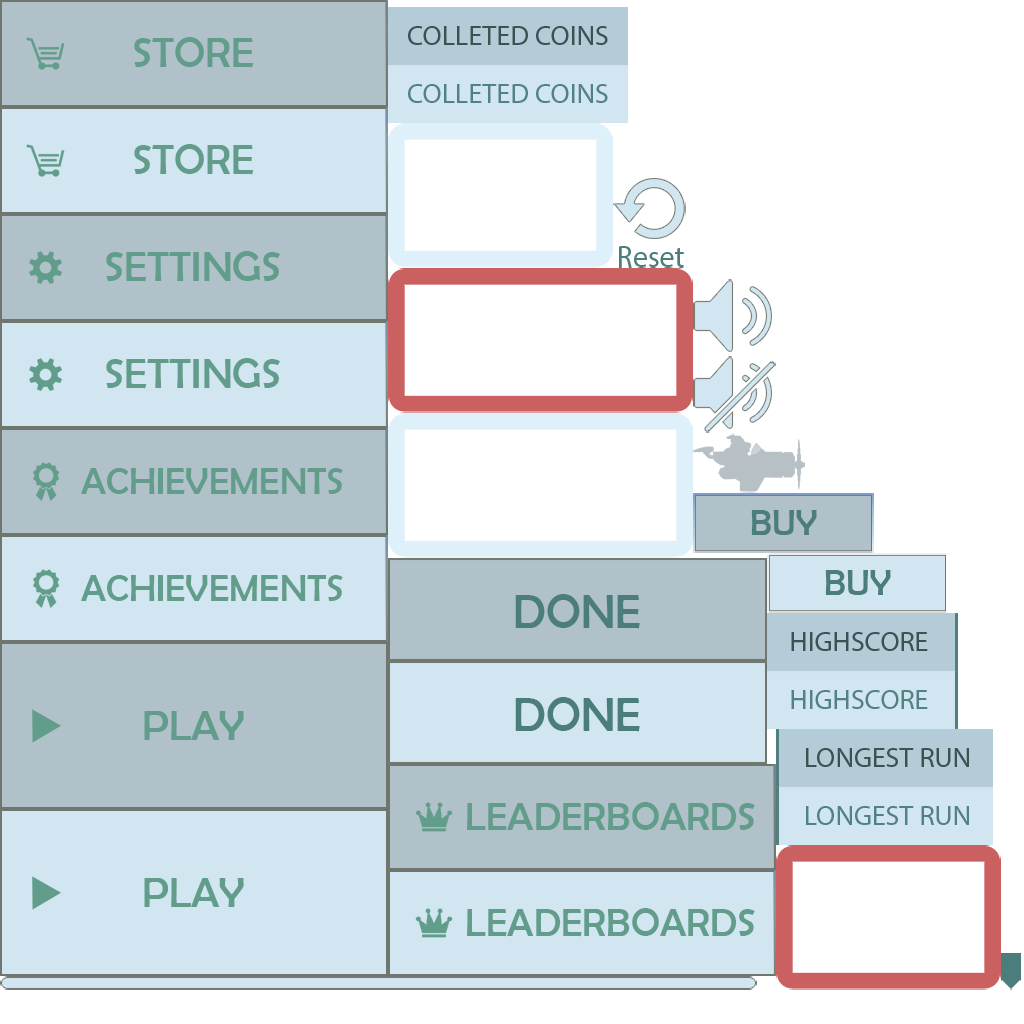
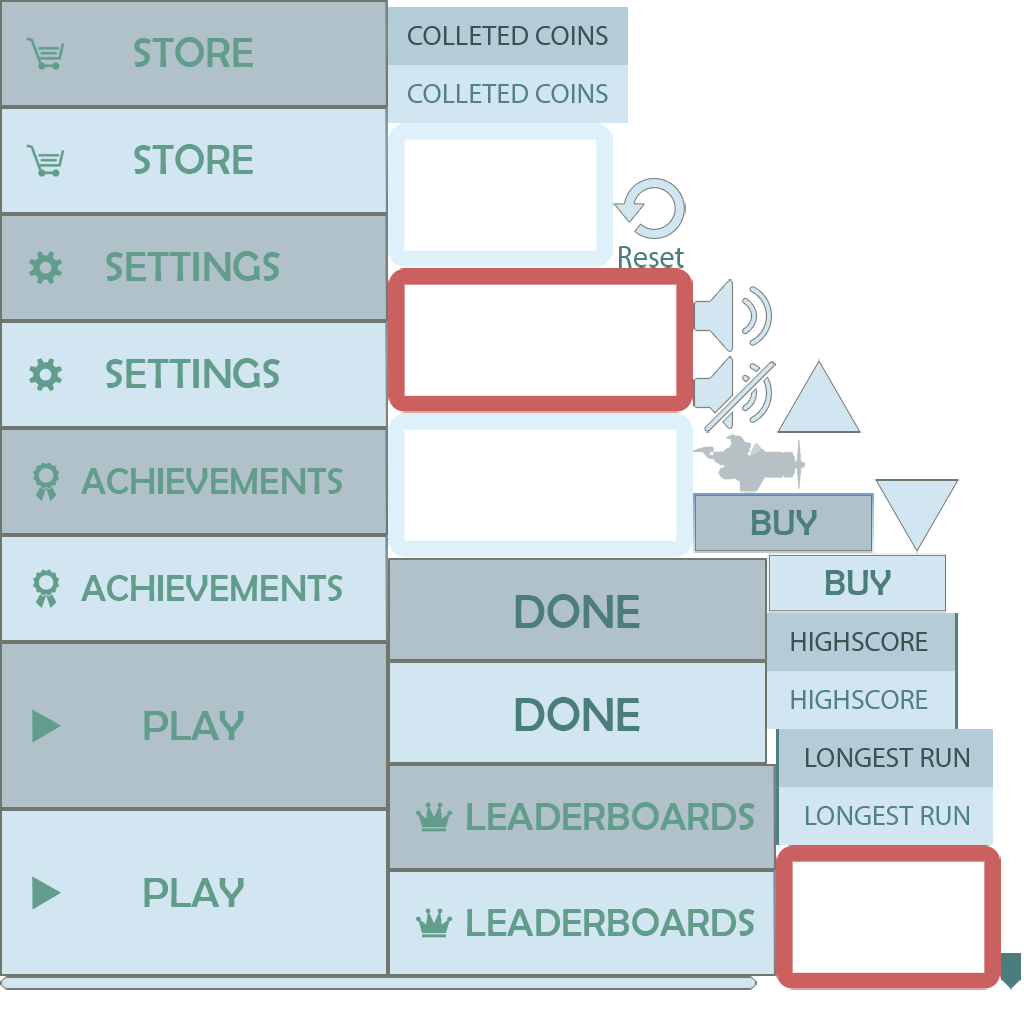
Added selector sub menu and selector to loadout view

Changed region(s): [[0.75, 0.3438, 0.8438, 0.4375], [0.8438, 0.4688, 0.9375, 0.5312]]

diff --git a/Bullet-Inferno/src/se/dat255/bulletinferno/view/menu/LoadoutView.java b/Bullet-Inferno/src/se/dat255/bulletinferno/view/menu/LoadoutView.java
@@ -1,11 +1,18 @@
 package se.dat255.bulletinferno.view.menu;
 
+import java.util.LinkedList;
+import java.util.List;
+
+import se.dat255.bulletinferno.util.Descriptable;
 import se.dat255.bulletinferno.util.Disposable;
 import se.dat255.bulletinferno.util.ResourceManager;
 import se.dat255.bulletinferno.util.TextureDefinitionImpl;
+import se.dat255.bulletinferno.view.menu.widget.LoadoutSelector;
 
+import com.badlogic.gdx.scenes.scene2d.Action;
 import com.badlogic.gdx.scenes.scene2d.Group;
 import com.badlogic.gdx.scenes.scene2d.Stage;
+import com.badlogic.gdx.scenes.scene2d.actions.Actions;
 import com.badlogic.gdx.scenes.scene2d.ui.Button;
 import com.badlogic.gdx.scenes.scene2d.ui.Button.ButtonStyle;
 import com.badlogic.gdx.scenes.scene2d.ui.Image;
@@ -15,16 +22,24 @@ public class LoadoutView implements Disposable {
 	public final static int VIRTUAL_HEIGHT = 1080, VIRTUAL_WIDTH = 1920;
 	
 	private final static int TABLE_X = 390, GLASS_WIDTH = 1113;
+	private final static float SLIDE_ANIMATION_DURATION = 0.4f;
 	
 	private final ResourceManager resources;
 	private final Stage stage;
-	private final Table table;
+	private final Table table, extensionTable;
 	private final MenuBackgroundView backgroundView;
 	private final Button standardWeaponButton, heavyWeaponButton;
 	private final Button passiveAbilityButton, specialAbilityButton;
 	private final Button doneButton;
+	private final LoadoutSelector standardSelector, heavySelector, passiveSelector, specialSelector;
+	private LoadoutSelector activeSelector = null;
+	private boolean isExtensionTabledown = false;
 	
-	public LoadoutView(ResourceManager resources, Stage stage) {
+	public LoadoutView(ResourceManager resources, Stage stage, 
+			List<Descriptable> standardWeaponOptions,
+			List<Descriptable> heavyWeaponOptions,
+			List<Descriptable> passiveAbilityOptions,
+			List<Descriptable> specialAbilityOptions) {
 		this.resources = resources;
 		this.stage = stage;
 		
@@ -107,7 +122,20 @@ public class LoadoutView implements Disposable {
 				resources.getDrawableTexture(TextureDefinitionImpl.LOADOUTMENU_DONE_BUTTON_DOWN));
 		table.add(doneButton).padTop(140);
 		
-		table.debug();
+		extensionTable = new Table();
+		extensionTable.setBackground(
+				resources.getDrawableTexture(TextureDefinitionImpl.LOADOUTMENU_GLASS_SELECT));
+		extensionTable.setSize(extensionTable.getBackground().getMinWidth(), VIRTUAL_HEIGHT);
+		extensionTable.setPosition(VIRTUAL_WIDTH - extensionTable.getWidth(), VIRTUAL_HEIGHT);
+		extensionTable.debug();
+		extensionTable.top();
+		
+		standardSelector = new LoadoutSelector(resources, standardWeaponOptions);
+		heavySelector = new LoadoutSelector(resources, heavyWeaponOptions);
+		passiveSelector = new LoadoutSelector(resources, passiveAbilityOptions);
+		specialSelector = new LoadoutSelector(resources, specialAbilityOptions);
+		extensionTable.add(standardSelector).width(extensionTable.getWidth() - 30);
+		stage.addActor(extensionTable);
 		stage.addActor(table);
 	}
 
@@ -118,4 +146,70 @@ public class LoadoutView implements Disposable {
 		doneButton.clear();
 	}
 
+	public void toggleStandardWeaponSelector() {
+		if(activeSelector == standardSelector) {
+			extensionTable.addAction(isExtensionTabledown? slideUpAction() : slideDownAction());
+		} else {
+			switchActiveSelector(standardSelector);
+		}
+	}
+	
+	public void toggleHeavyWeaponSelector() {
+		if(activeSelector == heavySelector) {
+			extensionTable.addAction(isExtensionTabledown? slideUpAction() : slideDownAction());
+		} else {
+			switchActiveSelector(heavySelector);
+		}
+	}
+	
+	public void togglePassiveAbilitySelector() {
+		if(activeSelector == passiveSelector) {
+			extensionTable.addAction(isExtensionTabledown? slideUpAction() : slideDownAction());
+		} else {
+			switchActiveSelector(passiveSelector);
+		}
+	}
+	
+	public void toggleSpecialAbilitySelector() {
+		if(activeSelector == specialSelector) {
+			extensionTable.addAction(isExtensionTabledown? slideUpAction() : slideDownAction());
+		} else {
+			switchActiveSelector(specialSelector);
+		}
+	}
+	
+	private void switchActiveSelector(final LoadoutSelector selector) {
+		Action switchAction =  new Action() {
+			@Override
+			public boolean act(float arg0) {
+				//extensionTable.removeActor(activeSelector);
+				//extensionTable.add(selector);
+				activeSelector = selector;
+				return true;
+			}
+		};
+		
+		if(isExtensionTabledown) {
+			extensionTable.addAction(Actions.sequence(slideUpAction(), switchAction, 
+					slideDownAction()));
+		} else {
+			extensionTable.addAction(Actions.sequence(switchAction, slideDownAction()));
+		}
+	}
+	
+	private Action slideDownAction() {
+		isExtensionTabledown = true;
+		return Actions.moveTo(extensionTable.getX(), 0, SLIDE_ANIMATION_DURATION);
+	}
+	
+	private Action slideUpAction() {
+		return Actions.sequence(Actions.moveTo(extensionTable.getX(), SLIDE_ANIMATION_DURATION), 
+				new Action() {
+					@Override
+					public boolean act(float arg0) {
+						isExtensionTabledown = false;
+						return true;
+					}
+				});
+	}
 }

diff --git a/Bullet-Inferno/src/se/dat255/bulletinferno/view/menu/widget/LoadoutSelector.java b/Bullet-Inferno/src/se/dat255/bulletinferno/view/menu/widget/LoadoutSelector.java
@@ -1,0 +1,112 @@
+package se.dat255.bulletinferno.view.menu.widget;
+
+import java.util.ArrayList;
+import java.util.List;
+
+import javax.swing.event.ChangeEvent;
+
+import se.dat255.bulletinferno.util.Descriptable;
+import se.dat255.bulletinferno.util.ResourceManager;
+import se.dat255.bulletinferno.util.TextureDefinitionImpl;
+
+import com.badlogic.gdx.graphics.g2d.Batch;
+import com.badlogic.gdx.math.Vector2;
+import com.badlogic.gdx.scenes.scene2d.Actor;
+import com.badlogic.gdx.scenes.scene2d.EventListener;
+import com.badlogic.gdx.scenes.scene2d.InputEvent;
+import com.badlogic.gdx.scenes.scene2d.ui.Button;
+import com.badlogic.gdx.scenes.scene2d.ui.Image;
+import com.badlogic.gdx.scenes.scene2d.ui.Table;
+import com.badlogic.gdx.scenes.scene2d.utils.ChangeListener;
+import com.badlogic.gdx.scenes.scene2d.utils.ClickListener;
+import com.badlogic.gdx.scenes.scene2d.utils.Drawable;
+
+public class LoadoutSelector extends Table {
+	private final Button upButton, downButton;
+	private final List<Option> values;
+	private final Image displayedItem = new Image();
+	private int selectedIndex = 0;
+	
+	public LoadoutSelector(ResourceManager resources, List<Descriptable> options) {
+		this(resources, options, 0);
+	}
+	
+	public LoadoutSelector(ResourceManager resources, List<Descriptable> options, 
+			int selectedOptionIndex) {
+		upButton = new Button(
+				resources.getDrawableTexture(TextureDefinitionImpl.LOADOUTMENU_TRIANGLE_BUTTON_UP));
+		downButton = new Button(
+				resources.getDrawableTexture(TextureDefinitionImpl.LOADOUTMENU_TRIANGLE_BUTTON_DOWN));
+		
+		values = new ArrayList<Option>(options.size());
+		float maxHeight = 0;
+		Drawable d;
+		for(Descriptable item : options) {
+			d = resources.getDrawableTexture(item);
+			values.add(new Option(item, d));
+			if(d.getMinHeight() > maxHeight) {
+				maxHeight = d.getMinHeight();
+			}
+		}		
+		
+		this.selectedIndex = selectedOptionIndex;
+		if(values.size() != 0) {
+			switchSelectedOption(selectedIndex);
+		}
+		
+		add(upButton);
+		row();
+		add(displayedItem).height(maxHeight);
+		row();
+		add(downButton);
+
+		upButton.addListener(new ClickListener() {
+			@Override
+			public void clicked(InputEvent event, float x, float y)  {
+				if(selectedIndex > 0) {
+					switchSelectedOption(--selectedIndex);
+				}
+			}
+		});
+		
+		downButton.addListener(new ClickListener() {
+			@Override
+			public void clicked(InputEvent event, float x, float y)  {
+				if(selectedIndex-1 < values.size()) {
+					switchSelectedOption(++selectedIndex);
+				}
+			}
+		});
+	}
+
+	public Descriptable getSelected() {
+		return values.get(selectedIndex).key;
+	}
+
+	
+	private void switchSelectedOption(int index) {
+		if(index <= 0) {
+			index = 0;
+			downButton.setVisible(true);
+			upButton.setVisible(false);
+		} else if(index >= values.size()-1) {
+			index = values.size()-1;
+			upButton.setVisible(true);
+			downButton.setVisible(false);
+		} else {
+			upButton.setVisible(true);
+			downButton.setVisible(true);
+		}
+		displayedItem.setDrawable(values.get(selectedIndex).value);
+		fire(new ChangeListener.ChangeEvent());
+	}
+	
+	private class Option {
+		public Drawable value;
+		public Descriptable key;
+		public Option(Descriptable key, Drawable value) {
+			this.key = key;
+			this.value = value;
+		}
+	}
+}

diff --git a/Bullet-Inferno/src/se/dat255/bulletinferno/controller/LoadoutController.java b/Bullet-Inferno/src/se/dat255/bulletinferno/controller/LoadoutController.java
@@ -1,8 +1,13 @@
 package se.dat255.bulletinferno.controller;
 
+import java.util.LinkedList;
+import java.util.List;
+
 import se.dat255.bulletinferno.model.loadout.PassiveAbilityDefinition;
 import se.dat255.bulletinferno.model.loadout.SpecialAbilityDefinition;
 import se.dat255.bulletinferno.model.weapon.WeaponDefinition;
+import se.dat255.bulletinferno.model.weapon.WeaponDefinitionImpl;
+import se.dat255.bulletinferno.util.Descriptable;
 import se.dat255.bulletinferno.util.ResourceManager;
 import se.dat255.bulletinferno.util.TextureDefinitionImpl;
 import se.dat255.bulletinferno.view.menu.LoadoutView;
@@ -76,9 +81,48 @@ public class LoadoutController extends SimpleController {
 
 		stage = new Stage(Gdx.graphics.getWidth(), Gdx.graphics.getHeight(), false);
 		skin = new Skin();
+		List<Descriptable> standard = new LinkedList<Descriptable>();
+		standard.add(new Descriptable() {
+			
+			@Override
+			public String getIdentifier() {
+				return WeaponDefinitionImpl.STANDARD_MACHINE_GUN.getIdentifier();
+			}
+			
+			@Override
+			public String getName() {
+				return "Laser Gun";
+			}
+			
+			@Override
+			public String getDescription() {
+				return "Damage : " + WeaponDefinitionImpl.STANDARD_MACHINE_GUN.getProjectileType().getDamage()
+						+ "\n Reloading time : " + WeaponDefinitionImpl.STANDARD_MACHINE_GUN.getReloadTime();
+			}
+		});
 		
-		view = new LoadoutView(resourceManager, stage);
-		
+		standard.add(new Descriptable() {
+					
+			@Override
+			public String getIdentifier() {
+				return WeaponDefinitionImpl.STANDARD_PLASMA_GUN.getIdentifier();
+			}
+			
+			@Override
+			public String getName() {
+				return "Laser Gun";
+			}
+			
+			@Override
+			public String getDescription() {
+				return "Damage : " + WeaponDefinitionImpl.STANDARD_PLASMA_GUN.getProjectileType().getDamage()
+						+ "\n Reloading time : " + WeaponDefinitionImpl.STANDARD_PLASMA_GUN.getReloadTime();
+			}
+		});
+		standard.add(standard.get(0));
+		view = new LoadoutView(resourceManager, stage, standard, new LinkedList<Descriptable>(),
+				new LinkedList<Descriptable>(), new LinkedList<Descriptable>());
+		view.toggleStandardWeaponSelector();
 		/*
 		setupBackground(resourceManager);
 

diff --git a/Bullet-Inferno/src/se/dat255/bulletinferno/util/TextureDefinitionImpl.java b/Bullet-Inferno/src/se/dat255/bulletinferno/util/TextureDefinitionImpl.java
@@ -159,7 +159,9 @@ public enum TextureDefinitionImpl implements TextureDefinition {
 	LOADOUTMENU_SELECTOR_BUTTON_SMALL(textureAtlas("images/gui/menubuttons.atlas", "loadoutsmallselector")),
 	LOADOUTMENU_SELECTOR_BUTTON_SMALL_ACTIVE(textureAtlas("images/gui/menubuttons.atlas", "loadoutsmallselector_active")),
 	LOADOUTMENU_SELECTOR_BUTTON_BIG(textureAtlas("images/gui/menubuttons.atlas", "loadoutbigselector")),
-	LOADOUTMENU_SELECTOR_BUTTON_BIG_ACTIVE(textureAtlas("images/gui/menubuttons.atlas", "loadoutbigselector_active"))
+	LOADOUTMENU_SELECTOR_BUTTON_BIG_ACTIVE(textureAtlas("images/gui/menubuttons.atlas", "loadoutbigselector_active")),
+	LOADOUTMENU_TRIANGLE_BUTTON_UP(textureAtlas("images/gui/menubuttons.atlas", "trianglebuttonup")),
+	LOADOUTMENU_TRIANGLE_BUTTON_DOWN(textureAtlas("images/gui/menubuttons.atlas", "trianglebuttondown"))
 	;
 
 	private TextureHolder holder;

diff --git a/Bullet-Inferno/src/se/dat255/bulletinferno/util/Descriptable.java b/Bullet-Inferno/src/se/dat255/bulletinferno/util/Descriptable.java
@@ -1,0 +1,15 @@
+package se.dat255.bulletinferno.util;
+
+public interface Descriptable extends ResourceIdentifier {
+	/**
+	 * Returns the name of the item
+	 * @return name
+	 */
+	public String getName();
+	
+	/**
+	 * Returns the description of the item
+	 * @return description
+	 */
+	public String getDescription();
+}
